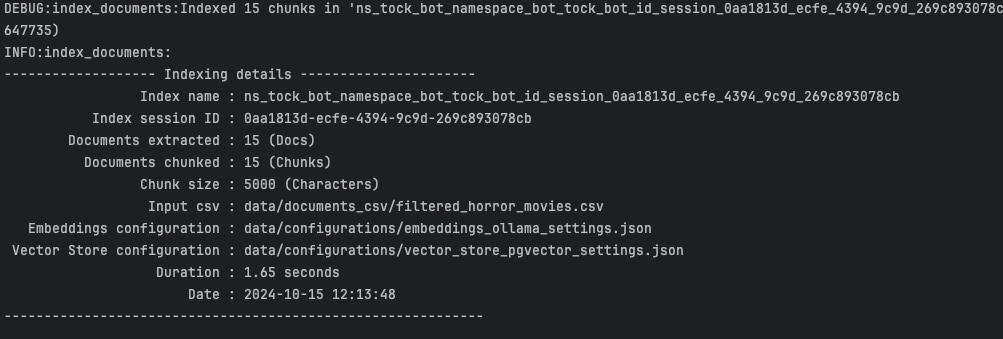
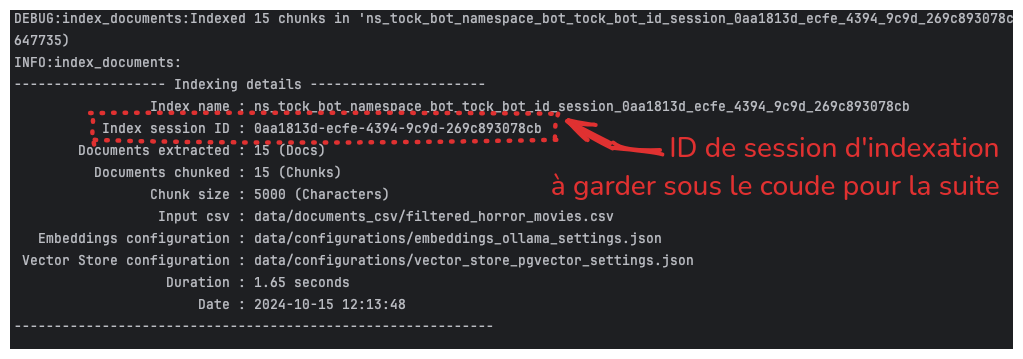
Step_4

Changed region(s): [[0.0, 0.0, 1.0, 1.0]]

diff --git a/step_4.md b/step_4.md
@@ -116,12 +116,15 @@ docker run --rm -it \
     --add-host=postgres-db:$POSTGRES_DB_SERVER \
     tock/llm-indexing-tools:$TAG \
     /bin/bash
+```
 
+Dans le conteneur :
+```bash
 # Excuter le script
 python /app/data/scripts/transform_horror_movie.py
 
 # Vérifiez le contenu du CSV filtré
-cat data/documents_csv/filtered_horror_movies.csv
+head data/documents_csv/filtered_horror_movies.csv -n 2
 ```
 
 ## Ingestion avec le tooling
@@ -140,18 +143,21 @@ Cette vectorisation intervient à 2 endroit, pour ingérer la base documentaire 
 
 #### Configuration avec ollama
 
-La configuration est sous format json :
-TODO
+La configuration est sous format json situé dans `data/configurations/embeddings_ollama_settings.json`, ce fichier contient le nom du modèle d'embedding ollama utilisé et l'emplacement du serveur ollama (vu du conteneur auquel nous fournirons un extra-host `ollama-server` qui pointe vers le bon serveur).
+Vous n'avez pas besoin de le modifier sauf si utilisez un modèle ollama d'emebdding différent.
 
-#### Configuration avec openai ou Azure OpenAI
+#### Configuration avec OpenAI ou Azure OpenAI
 
-TODO
+Vous pouvez utiliser un des modèles fourni par OpenAI ou Azure OpenAI comme modèle d'embedding dans ce cas inspirez vous configuration présentes ici : [tock-llm-indexing-tools
+/examples/](https://github.com/theopenconversationkit/tock/tree/master/gen-ai/orchestrator-server/src/main/python/tock-llm-indexing-tools/examples).
+
+Vous pouvez créer un fichier dans le dossier `data/configurations/` inspiré d'un de ces exemples avec vos nom de modèles / déploiement et clés.
 
 ### Lancer l'ingestion
 
-TODO:
-- Retrouver le BOT ID
-- Retrouver le namespace
+Si besoin ajustez les variables d'environnement `TOCK_BOT_ID` / `TOCK_BOT_NAMESPACE` et `EMBEDDING_JSON_CONFIGURATION`, pour rappel vous pouvez retrouver votre namespace et bot_id via Configuration > Application :
+
+![Application et namespace](./img/find_ns_app_bot_id_studio.png)
 
 ```bash
 # Sourcer vos variables d'environnement
@@ -161,18 +167,23 @@ docker run --rm -it \
     -v "$(pwd)/data":/app/data \
     -e NO_PROXY="host.docker.internal,ollama-server,postgres-db,localhost" \
     -e no_proxy="host.docker.internal,ollama-server,postgres-db,localhost" \
-    --add-host=host.docker.internal:host-gateway \
-    --add-host=ollama-server:host-gateway \
-    --add-host=postgres-db:host-gateway \
-    tock/llm-indexing-tools:24.9.3 \
+    --add-host=ollama-server:$OLLAMA_SERVER \
+    --add-host=postgres-db:$POSTGRES_DB_SERVER \
+    tock/llm-indexing-tools:$TAG \
     /bin/bash
-# A l'intérieur du shell de l'image
-export TOCK_BOT_ID=
-export TOCK_BOT_NAMESPACE=
-python tock-llm-indexing-tools/index_documents.py data/documents_csv/filtered_horror_movies.csv <NAMESPACE> <BOT-ID> data/configurations/embeddings_ollama_settings.json data/configurations/vector_store_pgvector_settings.json 5000 -v
 ```
 
-TODO ajouter l'output.
+```bash
+# A l'intérieur du shell de l'image
+export TOCK_BOT_ID=devfest2024
+export TOCK_BOT_NAMESPACE=app
+export EMBEDDING_JSON_CONFIGURATION=/app/data/configurations/embeddings_ollama_settings.json
+python tock-llm-indexing-tools/index_documents.py data/documents_csv/filtered_horror_movies.csv $TOCK_BOT_NAMESPACE $TOCK_BOT_ID $EMBEDDING_JSON_CONFIGURATION data/configurations/vector_store_pgvector_settings.json 5000 -v
+```
+
+Chaque ingestion d'un ensemble documentaire est associée à un ID de session d'indexation, nous allons le renseigner dans la configuration de TOCK. Ces sessions sont utilent en production pour revenir en arrière en cas de défaut d'ingestion.
+
+![Sortie du script](./img/python-ingestion-result.png)
 
 ## Étape suivante
 
